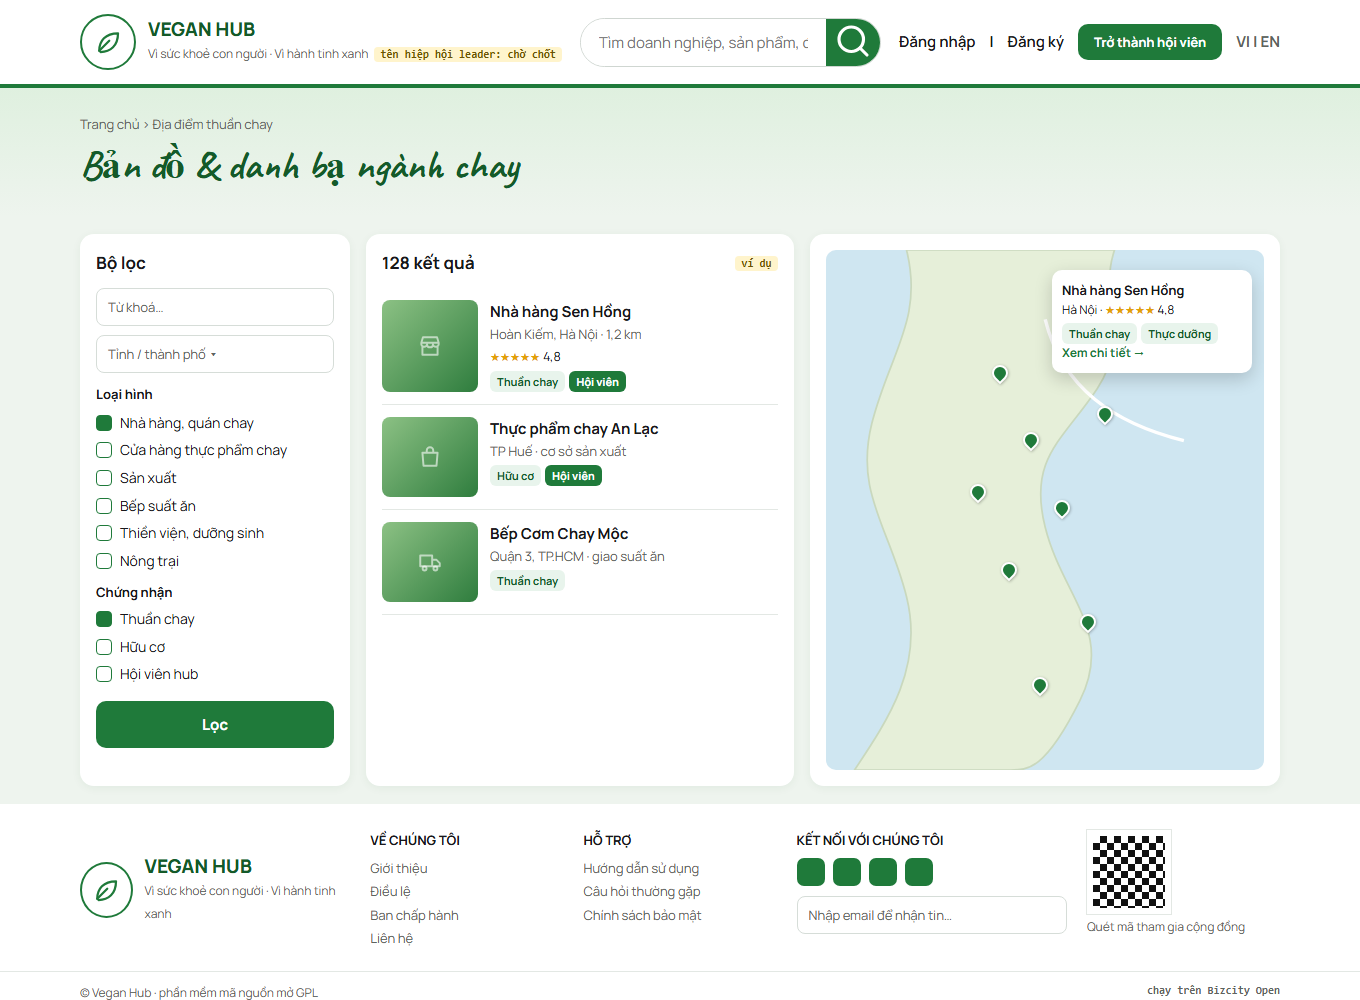
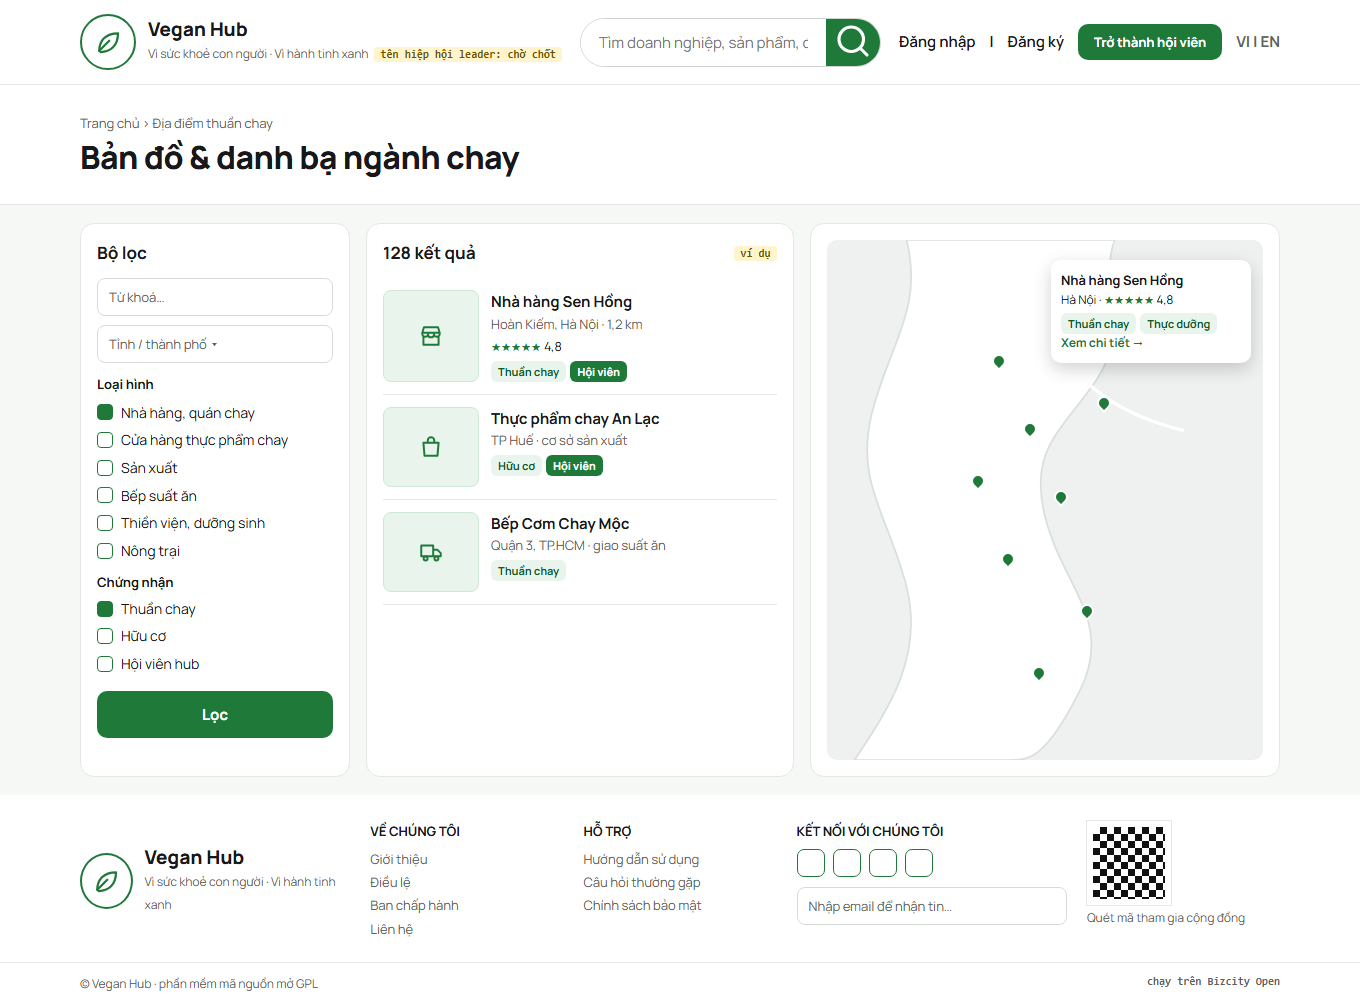
style(HUB-VEGAN P-2): R-HUB-13 — bỏ font viết tay, một tông màu, phong cách tối giản
- Persona và mockup lõi chỉ dùng Manrope + IBM Plex Mono; Caveat vỡ
  dấu tiếng Việt. Khẩu hiệu bằng chữ mono in hoa nhỏ.
- Persona: bỏ chuyển màu, minh hoạ nhiều màu, bóng đổ; nền trắng,
  viền mảnh, một tông xanh ngành.
- CSS hub ghi đè nhãn Caveat của open-hub trên site hub.
- Chụp lại 10 ảnh (8 persona, 2 lõi có nhãn ô ứng dụng).

diff --git a/mockup/vegan-persona.html b/mockup/vegan-persona.html
@@ -5,11 +5,12 @@
 <meta charset="utf-8">
 <meta name="viewport" content="width=device-width,initial-scale=1">
 <title>Mockup persona — Vegan Hub (cổng ngành chay)</title>
-<link href="https://fonts.googleapis.com/css2?family=Caveat:wght@600;700&family=Manrope:wght@400;500;600;700;800&display=swap" rel="stylesheet">
+<link href="https://fonts.googleapis.com/css2?family=IBM+Plex+Mono:wght@500;600&family=Manrope:wght@400;500;600;700;800&display=swap" rel="stylesheet">
 <style>
-:root{--g:#1f7a3a;--g-d:#145a29;--g-s:#e8f4ec;--g-l:#cfe8d6;--ink:#18181b;--mute:#5d6460;--line:#e3e8e4;--soft:#f5f8f5;--white:#fff;--soon:#6b5300;--soon-s:#fff4cc;--bad:#a3121a;--bad-s:#fdeeee;--f:"Manrope",system-ui,sans-serif;--hand:"Caveat",cursive}
+:root{--g:#1f7a3a;--g-d:#145a29;--g-s:#e8f4ec;--g-l:#cfe8d6;--ink:#18181b;--mute:#5d6460;--line:#e3e8e4;--soft:#f5f8f5;--white:#fff;--soon:#6b5300;--soon-s:#fff4cc;--bad:#a3121a;--bad-s:#fdeeee;--f:"Manrope",system-ui,sans-serif;--m:"IBM Plex Mono",ui-monospace,monospace}
+/* [2026-11-25 12:19 PM Johnny Chu - Chu Hoàng Anh] HUB-VEGAN P-2 — R-HUB-13: bỏ font viết tay (lỗi dấu tiếng Việt); chỉ Manrope + IBM Plex Mono; một tông màu ngành + xám; không chuyển màu, không minh hoạ nhiều màu. */
 *{box-sizing:border-box}
-body{margin:0;font:15px/1.55 var(--f);color:var(--ink);background:#eef4ee}
+body{margin:0;font:15px/1.55 var(--f);color:var(--ink);background:var(--soft)}
 h1,h2,h3,p{margin:0}a{color:inherit;text-decoration:none}
 .in{max-width:1240px;margin:0 auto;padding:0 20px}
 .mk{position:sticky;top:0;z-index:90;background:#111;color:#eee;font:13px ui-monospace,monospace;display:flex;gap:6px;flex-wrap:wrap;align-items:center;padding:8px 14px}
@@ -20,12 +21,12 @@ h1,h2,h3,p{margin:0}a{color:inherit;text-decoration:none}
 body.phone .stage{max-width:430px;margin:20px auto;border-radius:22px;overflow:hidden;box-shadow:0 10px 40px rgba(0,0,0,.15)}
 .scr{display:none}.scr.on{display:block}
 /* header */
-.hdr{background:#fff;border-bottom:4px solid var(--g)}
+.hdr{background:#fff;border-bottom:1px solid var(--line)}
 .hdr .in{display:flex;align-items:center;gap:18px;min-height:84px}
 .brand{display:flex;align-items:center;gap:12px;flex:none}
 .seal{width:56px;height:56px;border-radius:50%;border:2px solid var(--g);display:grid;place-items:center;color:var(--g)}
 .seal svg{width:30px;height:30px}
-.brand b{display:block;font-size:19px;font-weight:800;color:var(--g-d);line-height:1.15;text-transform:uppercase}
+.brand b{display:block;font-size:19px;font-weight:800;color:var(--ink);line-height:1.15}
 .brand small{color:var(--mute);font-size:12px}
 .search{flex:1;display:flex;border:1.5px solid #cfd6d1;border-radius:99px;overflow:hidden;max-width:520px}
 .search input{flex:1;border:0;padding:11px 18px;font:15px var(--f);outline:0}
@@ -39,43 +40,44 @@ body.phone .stage{max-width:430px;margin:20px auto;border-radius:22px;overflow:h
 body.phone .search,body.phone .hlinks .txt,body.phone .lang{display:none}
 body.phone .hdr .in{min-height:70px}
 /* hero */
-.hero{position:relative;overflow:hidden;background:linear-gradient(180deg,#dff0df 0%,#f3f9f1 55%,#eef4ee 100%);padding:34px 0 90px}
-.hero::before{content:"";position:absolute;left:-60px;right:-60px;bottom:40px;height:180px;background:radial-gradient(120% 100% at 30% 100%,#a9d3a1 0 40%,transparent 41%),radial-gradient(120% 100% at 75% 100%,#8cc184 0 38%,transparent 39%);opacity:.55}
+.hero{position:relative;background:#fff;border-bottom:1px solid var(--line);padding:48px 0 96px}
+.kick{font:600 12px var(--m);text-transform:uppercase;letter-spacing:.08em;color:var(--g)}
 .hero .in{position:relative;display:grid;grid-template-columns:170px 1.5fr 260px 170px;gap:20px;align-items:center}
-.slogan{font:700 26px/1.35 var(--hand);color:var(--g-d)}
-.hero h1{font:700 clamp(28px,3.2vw,40px)/1.1 var(--hand);color:var(--g-d)}
-.hero h1 span{display:block;font-size:1.25em}
+.slogan{font:500 12px/1.8 var(--m);text-transform:uppercase;letter-spacing:.06em;color:var(--mute);border-left:2px solid var(--g);padding-left:12px}
+.hero h1{font:800 clamp(30px,3.4vw,44px)/1.12 var(--f);letter-spacing:-.02em;margin:10px 0 0}
+.hero h1 span{color:var(--g)}
 .hero p{margin:10px 0 18px;font-size:17px}
-.bowl{aspect-ratio:1;border-radius:50%;background:radial-gradient(circle at 35% 35%,#fff7 0 18%,transparent 19%),conic-gradient(#7dbb5a 0 22%,#f08a3c 0 34%,#e7c75b 0 48%,#4f9a3a 0 64%,#7a3d8a 0 74%,#a7d07a 0 100%);box-shadow:inset 0 0 0 14px #e8d7b6,0 18px 40px rgba(20,90,41,.25)}
+.bowl{aspect-ratio:1;border-radius:50%;background:var(--g-s);border:1px solid var(--g-l);display:grid;place-items:center;color:var(--g)}
+.bowl svg{width:64px;height:64px}
 .vals{display:grid;gap:16px}
 .val{display:flex;align-items:center;gap:10px;font-weight:600;font-size:14px}
-.val i{width:46px;height:46px;border-radius:50%;background:var(--g);color:#fff;display:grid;place-items:center;flex:none}
+.val i{width:42px;height:42px;border-radius:50%;border:1.5px solid var(--g);color:var(--g);display:grid;place-items:center;flex:none}
 .val i svg{width:24px;height:24px}
 body.phone .hero .in{grid-template-columns:1fr}body.phone .slogan,body.phone .vals,body.phone .bowl{display:none}
 /* quick nav */
 .quick{position:relative;margin-top:-60px}
-.quick .bar{background:#fff;border-radius:16px;box-shadow:0 8px 28px rgba(20,90,41,.12);display:grid;grid-template-columns:repeat(8,1fr)}
+.quick .bar{background:#fff;border-radius:14px;border:1px solid var(--line);display:grid;grid-template-columns:repeat(8,1fr)}
 .quick a{display:grid;justify-items:center;gap:6px;padding:20px 8px;font-weight:600;font-size:14px;text-align:center;border-right:1px solid var(--line)}
 .quick a:last-child{border-right:0}
-.quick svg{width:34px;height:34px;color:var(--g)}
+.quick svg{width:28px;height:28px;color:var(--g)}
 body.phone .quick .bar{grid-template-columns:repeat(4,1fr)}body.phone .quick a:nth-child(4n){border-right:0}
 /* panels */
 .row{display:grid;grid-template-columns:1fr 1.55fr 1.15fr 1fr;gap:16px;margin-top:20px}
 body.phone .row,body.phone .g2,body.phone .dir,body.phone .prof{grid-template-columns:1fr}
-.pnl{background:#fff;border-radius:14px;padding:16px;box-shadow:0 2px 10px rgba(20,90,41,.06)}
+.pnl{background:#fff;border-radius:14px;padding:16px;border:1px solid var(--line)}
 .pnl h2{font-size:17px;display:flex;justify-content:space-between;align-items:center;margin-bottom:12px}
 .pnl h2 a{font-size:12px;color:var(--g);font-weight:600}
-.num{width:24px;height:24px;border-radius:50%;background:var(--g);color:#fff;font-size:12px;display:inline-grid;place-items:center;margin-right:6px}
+.num{font:600 12px var(--m);color:var(--g);margin-right:8px}
 .tabs{display:flex;gap:6px;flex-wrap:wrap;margin-bottom:10px}
 .tabs b,.tabs span{font-size:12px;border-radius:7px;padding:5px 9px;border:1px solid var(--line)}
 .tabs b{border-color:var(--g);color:var(--g-d);background:var(--g-s)}
 .fld{display:block;width:100%;border:1px solid #d6ddd8;border-radius:8px;padding:9px 11px;font:13px var(--f);color:var(--mute);margin-bottom:9px;background:#fff}
-.map{position:relative;border-radius:10px;overflow:hidden;background:#cfe6f1;min-height:230px}
+.map{position:relative;border-radius:10px;overflow:hidden;background:#eef1ef;min-height:230px}
 .map svg.land{position:absolute;inset:0;width:100%;height:100%}
-.pin{position:absolute;width:16px;height:16px;border-radius:50% 50% 50% 0;background:var(--g);transform:rotate(-45deg);border:2px solid #fff;box-shadow:0 1px 3px rgba(0,0,0,.3)}
+.pin{position:absolute;width:14px;height:14px;border-radius:50% 50% 50% 0;background:var(--g);transform:rotate(-45deg);border:2px solid #fff}
 .pop{position:absolute;right:12px;top:20px;background:#fff;border-radius:10px;padding:10px;width:200px;box-shadow:0 6px 18px rgba(0,0,0,.18);font-size:12px}
 .pop b{font-size:13px}
-.ph{background:linear-gradient(135deg,#8cc184,#2f7d3e);border-radius:8px;display:grid;place-items:center;color:#fff9;min-height:56px}
+.ph{background:var(--g-s);border:1px solid var(--g-l);border-radius:8px;display:grid;place-items:center;color:var(--g);min-height:56px}
 .ph svg{width:26px;height:26px}
 .news{display:grid;grid-template-columns:78px 1fr;gap:10px;margin-bottom:12px;font-size:13px}
 .news .ph{min-height:56px}
@@ -85,31 +87,31 @@ body.phone .row,body.phone .g2,body.phone .dir,body.phone .prof{grid-template-co
 .ev .d b{display:block;font-size:20px;line-height:1.1}.ev .d span{font-size:10px;font-weight:700}
 .cats{display:grid;grid-template-columns:repeat(8,1fr);gap:12px}
 body.phone .cats{grid-template-columns:repeat(2,1fr)}
-.cat{border-radius:10px;overflow:hidden;background:var(--g-s);text-align:center;font-weight:700;font-size:13px}
-.cat .ph{border-radius:0;min-height:74px}
+.cat{border-radius:10px;overflow:hidden;border:1px solid var(--line);background:#fff;text-align:center;font-weight:700;font-size:13px}
+.cat .ph{border-radius:0;border:0;min-height:74px}
 .cat span{display:block;padding:8px 4px}
-.stats{margin-top:20px;background:linear-gradient(90deg,#d6ebd0,#eef6ea 70%,#d6ebd0);padding:22px 0}
+.stats{margin-top:20px;background:#fff;border-top:1px solid var(--line);border-bottom:1px solid var(--line);padding:22px 0}
 .stats .in{display:flex;gap:26px;align-items:center;flex-wrap:wrap}
 .st{display:flex;gap:10px;align-items:center}
-.st i{width:50px;height:50px;border-radius:50%;background:#fff;color:var(--g);display:grid;place-items:center}
+.st i{width:46px;height:46px;border-radius:50%;border:1.5px solid var(--g);color:var(--g);display:grid;place-items:center}
 .st i svg{width:26px;height:26px}
 .st b{font-size:24px;display:block;line-height:1.1}.st span{font-size:13px}
 .st b.na{color:var(--mute);font-size:20px}
-.motto{margin-left:auto;font:700 26px/1.2 var(--hand);color:var(--g-d)}
+.motto{margin-left:auto;font:500 12px/1.8 var(--m);text-transform:uppercase;letter-spacing:.06em;color:var(--mute);text-align:right}
 /* footer */
 .ftr{background:#fff;padding:26px 0 0;margin-top:0}
 .ftr .in{display:grid;grid-template-columns:1.4fr 1fr 1fr 1.4fr 1fr;gap:20px}
 body.phone .ftr .in{grid-template-columns:1fr}
 .ftr h4{margin:0 0 8px;font-size:13px;text-transform:uppercase}
 .ftr li{list-style:none;font-size:13px;color:var(--mute);margin:3px 0}.ftr ul{padding:0;margin:0}
-.soc{display:flex;gap:8px}.soc i{width:28px;height:28px;border-radius:7px;background:var(--g);display:block}
+.soc{display:flex;gap:8px}.soc i{width:28px;height:28px;border-radius:7px;border:1.5px solid var(--g);display:block}
 .qr{width:84px;height:84px;background:repeating-conic-gradient(#111 0 25%,#fff 0 50%) 0 0/14px 14px;border:6px solid #fff;outline:1px solid var(--line)}
 .copy{border-top:1px solid var(--line);margin-top:20px;padding:12px 0;font-size:12px;color:var(--mute)}
 .copy .in{display:flex;justify-content:space-between}
 .runs{font:600 11px ui-monospace,monospace;color:var(--mute)}
 /* directory */
-.page-h{background:linear-gradient(180deg,#dff0df,#eef4ee);padding:26px 0}
-.page-h h1{font:700 40px var(--hand);color:var(--g-d)}
+.page-h{background:#fff;border-bottom:1px solid var(--line);padding:28px 0}
+.page-h h1{font:800 32px/1.15 var(--f);letter-spacing:-.015em}
 .crumb{font-size:13px;color:var(--mute);margin-bottom:6px}
 .dir{display:grid;grid-template-columns:270px 1fr 1.1fr;gap:16px;margin:18px auto}
 .chk{display:flex;gap:8px;align-items:center;font-size:14px;margin:6px 0}.chk i{width:16px;height:16px;border:1.5px solid var(--g);border-radius:4px;display:inline-block}.chk i.on{background:var(--g)}
@@ -118,9 +120,9 @@ body.phone .ftr .in{grid-template-columns:1fr}
 .item b{font-size:15px}.item p{font-size:13px;color:var(--mute)}
 .badge{display:inline-block;font-size:11px;font-weight:700;border-radius:6px;padding:2px 7px;background:var(--g-s);color:var(--g-d);margin:4px 4px 0 0}
 .badge.mem{background:var(--g);color:#fff}
-.star{color:#e3a008;font-size:12px}
+.star{color:var(--g);font-size:12px}
 /* profile */
-.cover{height:220px;background:linear-gradient(135deg,#a9d3a1,#2f7d3e);position:relative}
+.cover{height:200px;background:var(--g-s);border-bottom:1px solid var(--g-l);position:relative}
 .cover .ph{position:absolute;inset:0;border-radius:0;background:transparent}
 .prof{display:grid;grid-template-columns:1.6fr 1fr;gap:16px;margin:-50px auto 20px;position:relative}
 .prof h1{font-size:28px}
@@ -168,11 +170,11 @@ body.phone .ftr .in{grid-template-columns:1fr}
   <div class="hero"><div class="in">
     <p class="slogan">Ăn chay hôm nay<br>Vì một ngày mai<br>tốt đẹp hơn</p>
     <div>
-      <h1>Cùng kiến tạo<span>Ngành chay Việt Nam phát triển bền vững</span></h1>
+      <p class="kick">Cùng kiến tạo</p><h1>Ngành chay Việt Nam <span>phát triển bền vững</span></h1>
       <p>Kết nối cộng đồng · Lan toả giá trị · Vì một cuộc sống xanh hơn</p>
       <a class="btn g" href="#">Tìm hiểu về hiệp hội</a> <a class="btn o" href="#" data-go="member">Trở thành hội viên</a>
     </div>
-    <div class="bowl" role="img" aria-label="Ảnh bát rau củ — chờ ảnh thật"></div>
+    <div class="bowl" role="img" aria-label="Ảnh ngành — chờ ảnh thật" data-i="leaf"></div>
     <div class="vals"><div class="val"><i data-i="heart"></i>Sức khoẻ con người</div><div class="val"><i data-i="globe"></i>Bảo vệ môi trường</div><div class="val"><i data-i="leaf"></i>Phát triển bền vững</div></div>
   </div></div>
 
@@ -302,7 +304,7 @@ body.phone .ftr .in{grid-template-columns:1fr}
   document.querySelectorAll('[data-i]').forEach(function(e){e.insertAdjacentHTML('afterbegin',svg(e.dataset.i));});
   var cats=[['store','Nhà hàng chay'],['bag','Thực phẩm chay'],['heart','Đồ uống lành mạnh'],['leaf','Sản phẩm hữu cơ'],['globe','Dịch vụ & du lịch chay'],['users','Đào tạo & tư vấn'],['factory','Cộng đồng & dự án'],['gift','Ưu đãi hội viên']];
   document.getElementById('cats').innerHTML=cats.map(function(c){return '<a class="cat" href="#"><div class="ph">'+svg(c[0])+'</div><span>'+c[1]+'</span></a>';}).join('');
-  var land='<svg class="land" viewBox="0 0 400 300" preserveAspectRatio="xMidYMid slice"><path d="M120 0h120c-10 30 10 50-10 80s-40 40-30 80 40 60 20 100-30 40-40 40H90c20-30 40-60 30-100s-30-60-20-100 30-60 20-100z" fill="#e6efd9" stroke="#c9d8bd"/><path d="M0 120c40 10 60 30 70 60" stroke="#fff" stroke-width="3" fill="none"/><path d="M200 40c10 40 40 60 80 70" stroke="#fff" stroke-width="2" fill="none"/></svg>';
+  var land='<svg class="land" viewBox="0 0 400 300" preserveAspectRatio="xMidYMid slice"><path d="M120 0h120c-10 30 10 50-10 80s-40 40-30 80 40 60 20 100-30 40-40 40H90c20-30 40-60 30-100s-30-60-20-100 30-60 20-100z" fill="#fff" stroke="#d9dfdb"/><path d="M0 120c40 10 60 30 70 60" stroke="#fff" stroke-width="3" fill="none"/><path d="M200 40c10 40 40 60 80 70" stroke="#fff" stroke-width="2" fill="none"/></svg>';
   function map(id,pop){var m=document.getElementById(id);if(!m)return;var pins=[[38,22],[45,35],[52,48],[40,60],[58,70],[47,82],[33,45],[62,30]];m.innerHTML=land+pins.map(function(p){return '<i class="pin" style="left:'+p[0]+'%;top:'+p[1]+'%"></i>';}).join('')+(pop?'<div class="pop"><b>Nhà hàng Sen Hồng</b><br>Hà Nội · <span class="star">★★★★★</span> 4,8<br><span class="badge">Thuần chay</span><span class="badge">Thực dưỡng</span><br><a style="color:#1f7a3a;font-weight:700" href="#" data-go="place">Xem chi tiết →</a></div>':'');}
   map('map-home',1);map('map-dir',1);map('map-place',0);
   function show(s){document.querySelectorAll('[data-scr]').forEach(function(x){x.setAttribute('aria-pressed',x.dataset.scr===s);});document.querySelectorAll('.scr').forEach(function(x){x.classList.toggle('on',x.id==='scr-'+s);});window.scrollTo(0,0);}

diff --git a/mockup/vegan-hub.html b/mockup/vegan-hub.html
@@ -6,7 +6,7 @@
 <meta name="viewport" content="width=device-width,initial-scale=1">
 <title>Mockup — Vegan Hub (Bizcity Open cho ngành chay)</title>
 <link rel="preconnect" href="https://fonts.googleapis.com">
-<link href="https://fonts.googleapis.com/css2?family=Caveat:wght@600;700&family=IBM+Plex+Mono:wght@500;600&family=Manrope:wght@400;500;600;700;800&display=swap" rel="stylesheet">
+<link href="https://fonts.googleapis.com/css2?family=IBM+Plex+Mono:wght@500;600&family=Manrope:wght@400;500;600;700;800&display=swap" rel="stylesheet">
 <style>
 /* Khung Bizcity Open (open-hub v2) giữ nguyên; hub ngành chỉ đổi MỘT nhóm biến màu nhấn (--acc*). */
 :root{
@@ -14,7 +14,7 @@
   --black:#0c0c0d;--ink:#18181b;--mute:#585a60;--line:#e5e5e7;--soft:#f5f5f6;--white:#fff;
   --ok:#1e7a3d;--ok-s:#e6f4ea;--soon:#6b5300;--soon-s:#fff4cc;--bad:#a3121a;--bad-s:#fdeeee;
   --on-dark:#f4f4f5;--on-dark-mute:#b4b5ba;--dark-line:#2c2c30;
-  --f:"Manrope",system-ui,sans-serif;--m:"IBM Plex Mono",ui-monospace,monospace;--hand:"Caveat",cursive;
+  --f:"Manrope",system-ui,sans-serif;--m:"IBM Plex Mono",ui-monospace,monospace;
 }
 *{box-sizing:border-box}
 body{margin:0;font:16px/1.6 var(--f);color:var(--ink);background:var(--white)}
@@ -74,7 +74,9 @@ body.phone .hero-g,body.phone .g3,body.phone .g2,body.phone .kpis{grid-template-
 .apps{display:grid;grid-template-columns:repeat(6,1fr);gap:26px 14px;margin-top:22px}
 body.phone .apps{grid-template-columns:repeat(3,1fr)}
 .tile{display:flex;flex-direction:column;align-items:center;text-align:center;text-decoration:none;gap:8px;padding-top:28px;position:relative}
-.tile .alt{position:absolute;top:0;left:0;right:0;font:700 19px var(--hand);color:var(--acc-d);white-space:nowrap;overflow:hidden;text-overflow:ellipsis}
+/* [2026-11-25 12:19 PM Johnny Chu - Chu Hoàng Anh] HUB-VEGAN P-2 — R-HUB-13: nhãn "nếu không dùng" bằng mono, không font viết tay. */
+/* [2026-11-25 12:19 PM Johnny Chu - Chu Hoàng Anh] HUB-VEGAN P-2 — R-HUB-13: nhãn "nếu không dùng" bằng mono, không font viết tay. */
+.tile .alt{position:absolute;top:6px;left:0;right:0;font:500 11px var(--m);color:var(--acc-d);white-space:nowrap;overflow:hidden;text-overflow:ellipsis}
 .alt-off .tile .alt{visibility:hidden}
 .tile .bx{width:88px;height:88px;border-radius:18px;background:#fff;box-shadow:0 1px 2px rgba(0,0,0,.06),0 0 0 1px var(--line);display:grid;place-items:center;color:var(--acc)}
 .tile .bx svg{width:30px;height:30px}

diff --git a/assets/css/vegan-hub.css b/assets/css/vegan-hub.css
@@ -8,3 +8,5 @@
   --red-s:#e8f4ec;
   --red-on-dark:#5fd38a;
 }
+/* [2026-11-25 12:19 PM Johnny Chu - Chu Hoàng Anh] HUB-VEGAN P-2 — R-HUB-13: nhãn "nếu không dùng" của open-hub đang dùng Caveat; trên site hub đổi sang mono. */
+body.bz-oh .tile .alt,body.bz-oh .alt-line{font:500 12px/1.3 var(--m);letter-spacing:0;transform:none}

diff --git a/docs/CHECKLIST.md b/docs/CHECKLIST.md
@@ -25,6 +25,7 @@ Mockup lõi: [mockup/vegan-hub.html](../mockup/vegan-hub.html) — **đã duyệ
 | A-15 | Persona P3 hồ sơ cơ sở (nút Zalo tới trợ lý của chính cơ sở) | — | [x] mockup + shots · [ ] mã |
 | A-16 | Persona P4 trở thành hội viên (gói tặng + AI dùng thử đứng đầu, ô đồng ý hiện danh bạ) | — | [x] mockup + shots · [ ] mã |
 | A-17 | Persona bản điện thoại | — | [x] shots p5, p6 |
+| A-18 | R-HUB-13: không font viết tay, một tông màu, viền mảnh thay bóng | — | [x] mockup lõi + persona + CSS ghi đè trên site hub |
 
 ## Checklist B — giải pháp mã
 

diff --git a/CHANGELOG.md b/CHANGELOG.md
@@ -2,6 +2,7 @@
 
 ## 0.1.0 — 2026-11-25
 
+- R-HUB-13: bỏ font viết tay ở cả hai mockup và trên site hub (ghi đè nhãn Caveat của open-hub); persona chỉ còn Manrope + IBM Plex Mono, một tông xanh, không chuyển màu. Chụp lại 10 ảnh.
 - Bộ shots lõi được chủ duyệt làm chuẩn bắt buộc cho mọi hub ngành (canon CHUAN-HUB-NGANH 1.1.0, R-HUB-11).
 - Mockup persona `mockup/vegan-persona.html` + 8 ảnh `docs/shots/persona/`: cổng ngành chay, bản đồ & danh bạ (trống, lỗi), hồ sơ cơ sở, trở thành hội viên, hai bản điện thoại (R-HUB-12, chờ duyệt).
 
